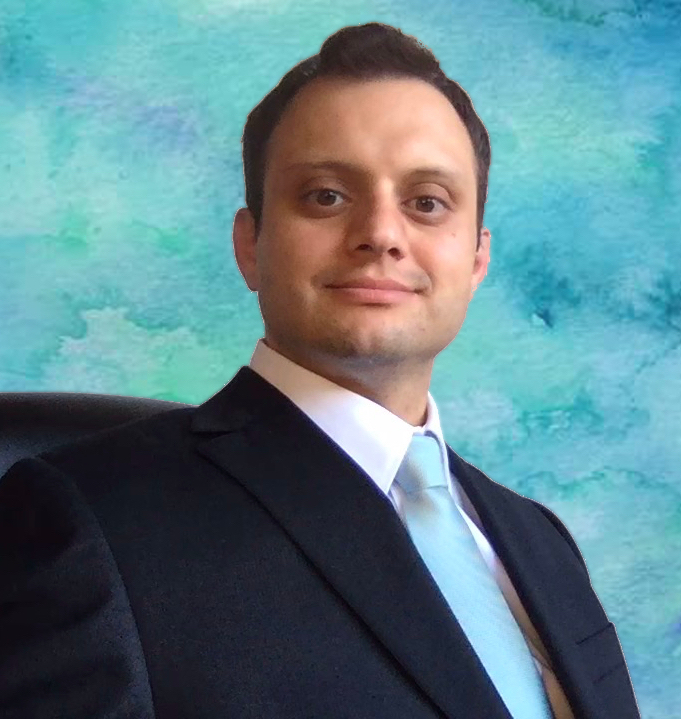
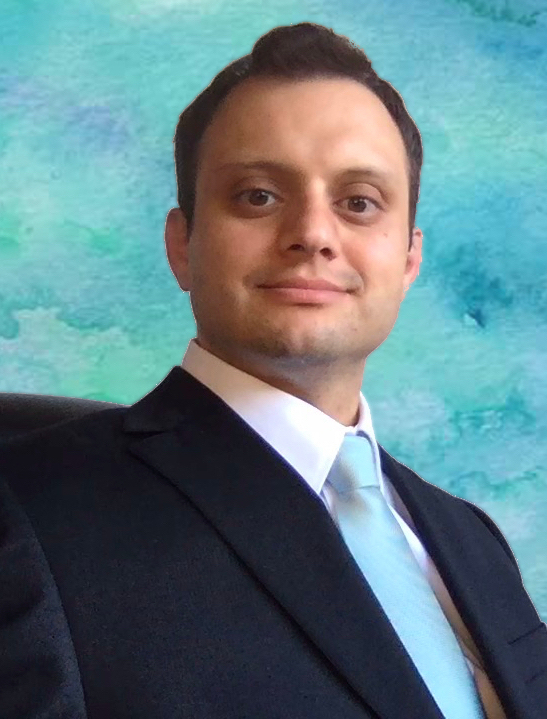
photo

diff --git a/_layouts/home.html b/_layouts/home.html
@@ -6,7 +6,7 @@ layout: default
 
     <h1 class="post-title">About</h1>
 
-  <img src="/img/me.jpg" alt="HarisThemistocleous" width="275" height="300">
+  <img src="/img/me.jpg" alt="HarisThemistocleous" vspace=10 hspace="30" style="float:left;width:230px;height:300px;">
   <div class="body">
     <p style="text-align:justify;"><span style="color:#000000;"><strong></strong></span></p>
     <p  ><span  style="color:#000000;">  As  of  April  2018  –  I  am

diff --git a/_site/about/index.html b/_site/about/index.html
@@ -103,7 +103,7 @@
 
     <h1 class="post-title">About</h1>
 
-  <img src="/img/me.jpg" alt="HarisThemistocleous" width="275" height="300">
+  <img src="/img/me.jpg" alt="HarisThemistocleous" vspace=10 hspace="30" style="float:left;width:230px;height:300px;">
   <div class="body">
     <p style="text-align:justify;"><span style="color:#000000;"><strong></strong></span></p>
     <p  ><span  style="color:#000000;">  As  of  April  2018  –  I  am

diff --git a/_site/index.html b/_site/index.html
@@ -103,7 +103,7 @@
 
     <h1 class="post-title">About</h1>
 
-  <img src="/img/me.jpg" alt="HarisThemistocleous" width="275" height="300">
+  <img src="/img/me.jpg" alt="HarisThemistocleous" vspace=10 hspace="30" style="float:left;width:230px;height:300px;">
   <div class="body">
     <p style="text-align:justify;"><span style="color:#000000;"><strong></strong></span></p>
     <p  ><span  style="color:#000000;">  As  of  April  2018  –  I  am
